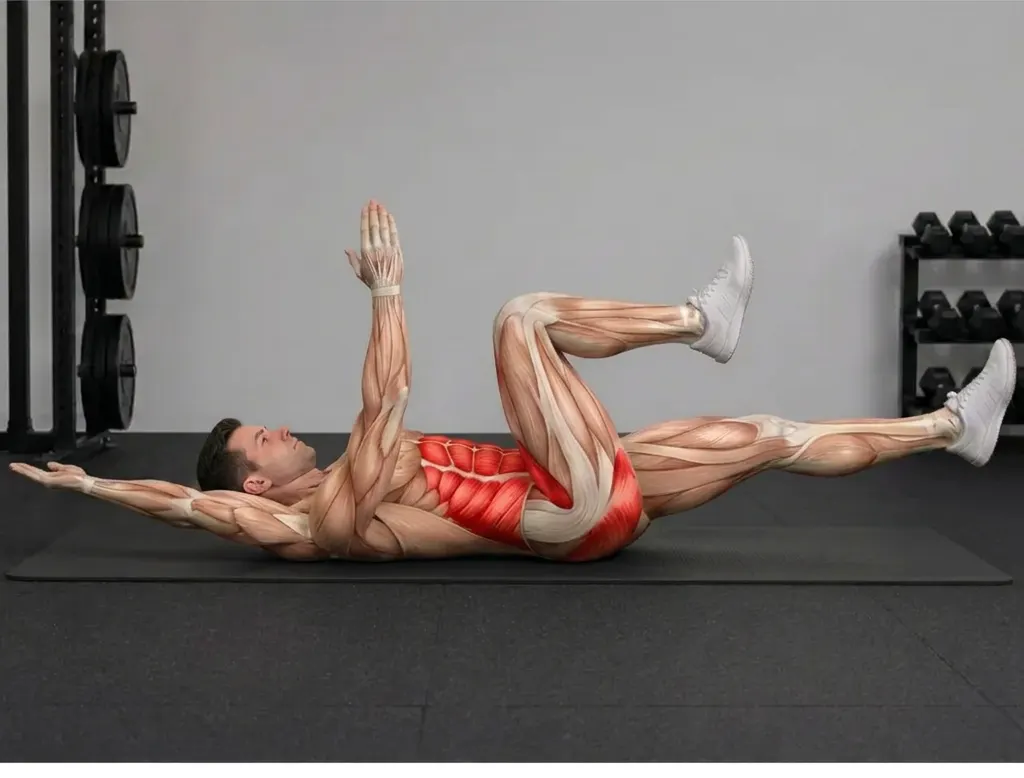
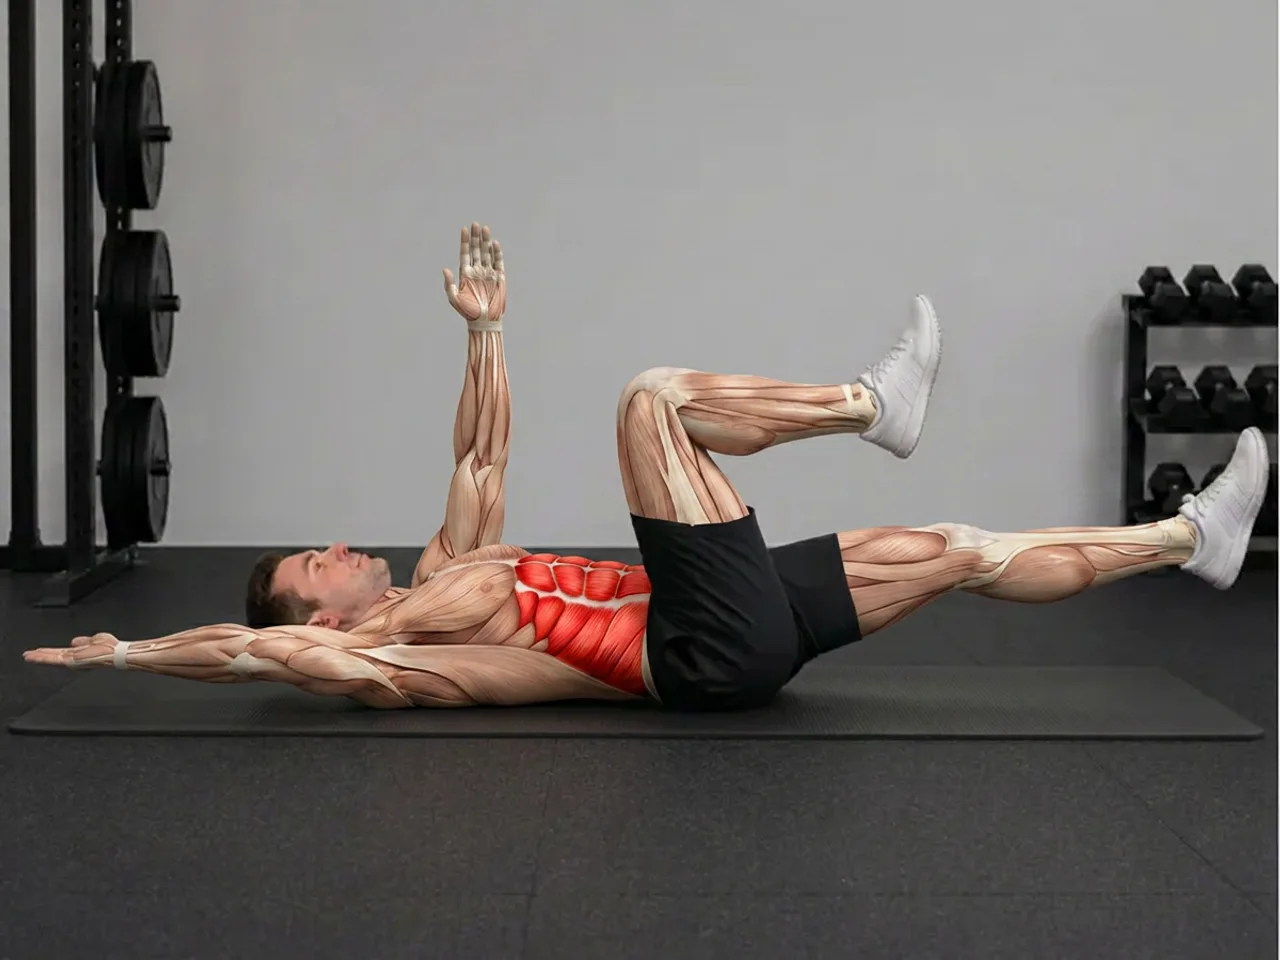
Corpo impossivel no dead-bug e mosquetao no rosto: varredura de anatomia
O Filipe abriu o dead-bug e viu os DOIS BRACOS saindo do MESMO OMBRO, com o
ombro do outro lado vazio. Corpo impossivel, na foto de execucao, herdado pela
camada de analise.

Varri as 201 imagens (101 execucoes + 100 analises) com essa pergunta especifica
e achei DOIS defeitos reais:

- dead-bug: os dois bracos no mesmo ombro
- face-pull-polia: o mosquetao e a ferragem do cabo POR CIMA do rosto, com a
  peca de metal em cima do nariz e da boca

Investiguei e DESCARTEI tres suspeitas, e registro que descartei porque conferir
e nao relatar e o mesmo que nao conferir: abducao-quadril-elastico (os dois
bracos estao la), supino-maquina (o que parecia mancha no rosto era sombra na
folha em miniatura) e crucifixo-inverso. As outras 198 estao plausiveis.

Os quatro arquivos (execucao + analise dos dois) foram regerados e conferidos
com os proprios olhos, os dois ampliados antes de aceitar. No dead-bug o braco
de baixo agora passa POR TRAS DA CABECA, vindo do ombro oposto, que e onde ele
tinha que passar. No face-pull o rosto ficou inteiramente livre, com a corda em
V abaixo do queixo.

A LICAO, registrada na skill, e a que mais importa: essa imagem passou por TRES
varreduras minhas antes e nenhuma pegou, porque NENHUMA ESTAVA PERGUNTANDO ISSO.
A varredura de analise olhava se o musculo certo estava vermelho; a do par
olhava se as duas metades eram a mesma cena. Nos dois criterios o dead-bug
passava. E a terceira roupa da mesma licao deste projeto: par certo e musculo
[…]

diff --git a/.claude/skills/imagens-lovable/SKILL.md b/.claude/skills/imagens-lovable/SKILL.md
@@ -155,6 +155,43 @@ primeiro e busque com `?v=<timestamp>` e `Cache-Control: no-cache`. Comparar só
 distingue a nova da velha. O aviso original sobre troca de câmera segue valendo pelos casos que
 de fato falharam (manguito, puxada-supinada), mas ele NÃO tem um terceiro registro.
 
+### ADENDO de 23/08/2026: CADA VARREDURA SÓ RESPONDE A PERGUNTA QUE ELA FEZ
+
+O Filipe abriu o dead-bug e viu **os dois braços saindo do mesmo ombro**, com o ombro do outro
+lado vazio. Corpo impossível, na foto de execução, herdado pela camada de análise.
+
+O que dói é que essa imagem passou por TRÊS varreduras minhas antes: a de 19/08 (camada de
+análise), a de 22/08 (boneco na posição) e a de 22 e 23/08 (par foto + análise). Nenhuma pegou,
+e não por desatenção: **nenhuma delas estava perguntando isso**. A de análise olhava se o
+músculo certo estava vermelho. A do par olhava se as duas metades eram a mesma cena. Nas duas o
+dead-bug passou, porque nos dois critérios ele estava certo.
+
+É a mesma lição que este projeto já aprendeu duas vezes com outra roupa: "conferir um lado não
+diz nada sobre o outro" (o boneco que faltava em 24 exercícios), e depois "cada imagem sozinha
+estava boa, o defeito só existe no PAR". Agora: **par certo e músculo certo não dizem nada sobre
+o CORPO estar possível.**
+
+**Então a varredura de anatomia é uma passada PRÓPRIA, com pergunta própria:** para cada figura,
+os membros nascem cada um no seu lugar? O número de braços, pernas, mãos e dedos fecha? Um
+membro que deveria estar escondido está escondido, ou brotou do lugar errado? Faça essa passada
+em folha de contato de 2 colunas com célula grande (390 px ou mais); a 300 px o defeito do
+dead-bug não aparece.
+
+**No prompt de correção, descreva a GEOMETRIA, não o defeito.** "Conserte a anatomia" não
+funciona. O que funcionou foi: "o braço mais PRÓXIMO da câmera aponta para o teto e sai do ombro
+próximo; o braço mais LONGE está estendido no chão acima da cabeça, sai do ombro do OUTRO LADO
+do tronco e aparece PARCIALMENTE ESCONDIDO atrás da cabeça". Saiu certo de primeira, e o braço
+de baixo passou por trás da cabeça, que é exatamente onde ele tinha que passar.
+
+**Objeto na frente do rosto também conta como estranheza.** No face-pull o mosquetão do cabo
+estava por cima do nariz e da boca. A correção que funcionou também foi geométrica: "as duas
+pontas da corda passam pelos LADOS do rosto, na altura das orelhas; o mosquetão fica ABAIXO da
+linha do queixo".
+
+**Não dá para transformar isso em guardrail, e está declarado:** plausibilidade anatômica não é
+medível por script. O `check:pares` mede cena e proporção porque essas têm número; anatomia não
+tem. Aqui o método é o olho, e o que fica registrado é a PERGUNTA a fazer, não uma asserção.
+
 ## Verificação é obrigatória
 
 O agente do Lovable **avisa sozinho** quando erra ("a imagem 0 saiu parecendo uma máquina de cabos"). Leia a resposta dele. Mas não confie só nisso: olhe as imagens. Nunca salve lote sem inspecionar item a item.
